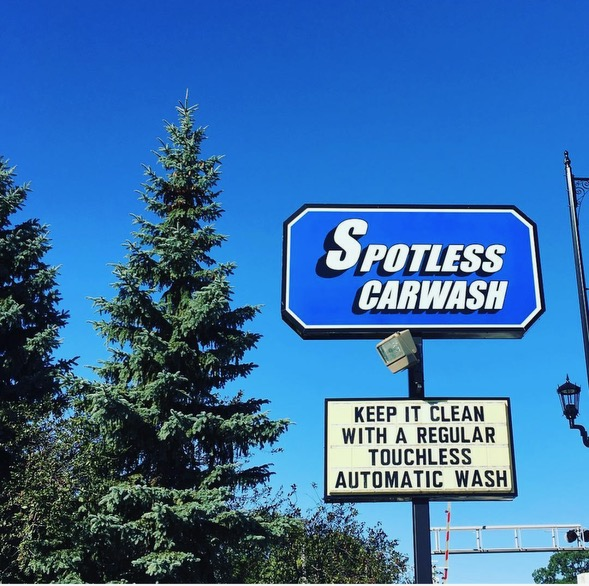
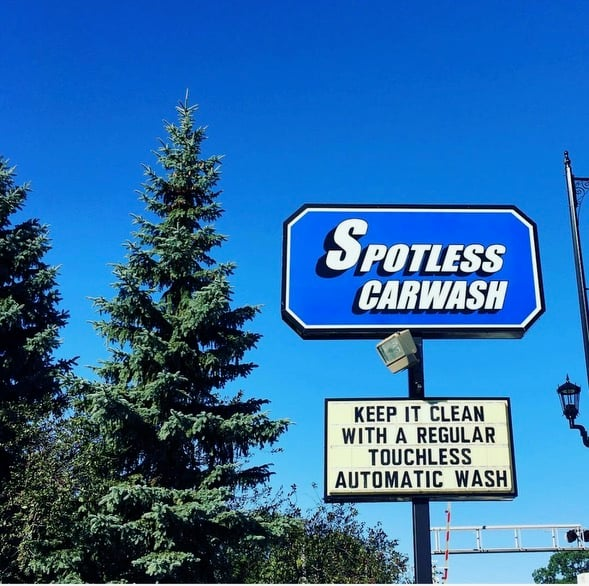
perf: optimize site images — 71.6 MB of sources down to 4.3 MB
public/images held 71.6 MB across nine files, seven of them 5-18 MB straight
off a phone camera — three at ~26 megapixels (4448x5928). Everything renders
through next/image, so visitors were never downloading those bytes, but the
sources bloated the repo and every deployment and made the first request for
each size a slow cold transform.

Re-encoded with sharp (mozjpeg, progressive): 71.6 MB -> 4.3 MB, 94% smaller.

Resolution is deliberately generous. The largest display size in the
components is 600 CSS px (`sizes`), so ~1536px covers a 2x retina full-width
phone; the cap is 2400px on the longest edge, comfortably above that. Images
already at or below the cap keep their native dimensions — an earlier pass
with `sips -Z` silently UPSCALED the three 1400px photos to 2400, which adds
no detail and only costs bytes, so the script now sets withoutEnlargement.

Verified rather than assumed: a 1:1 crop of the most heavily compressed file
(madison-location, 95.6% smaller) is visually indistinguishable from the same
region of the original — sign lettering, street signage and foliage detail all
hold, with no JPEG artifacts.

madison-hero.png -> .jpg: it was a 7.4 MB PNG holding a photo. sharp's stats
confirmed the alpha channel is fully opaque (min 255), so nothing was lost in
the conversion. Its one reference is updated. og-image.png keeps its name and
container — it is referenced by extension in the OpenGraph tags and served raw
[…]

diff --git a/app/locations/madison-st/page.tsx b/app/locations/madison-st/page.tsx
@@ -305,7 +305,7 @@ export default async function Page() {
                 />
               ) : (
                 <Image
-                  src="/images/madison-hero.png"
+                  src="/images/madison-hero.jpg"
                   alt="Spotless Carwash Madison St storefront"
                   fill
                   priority
